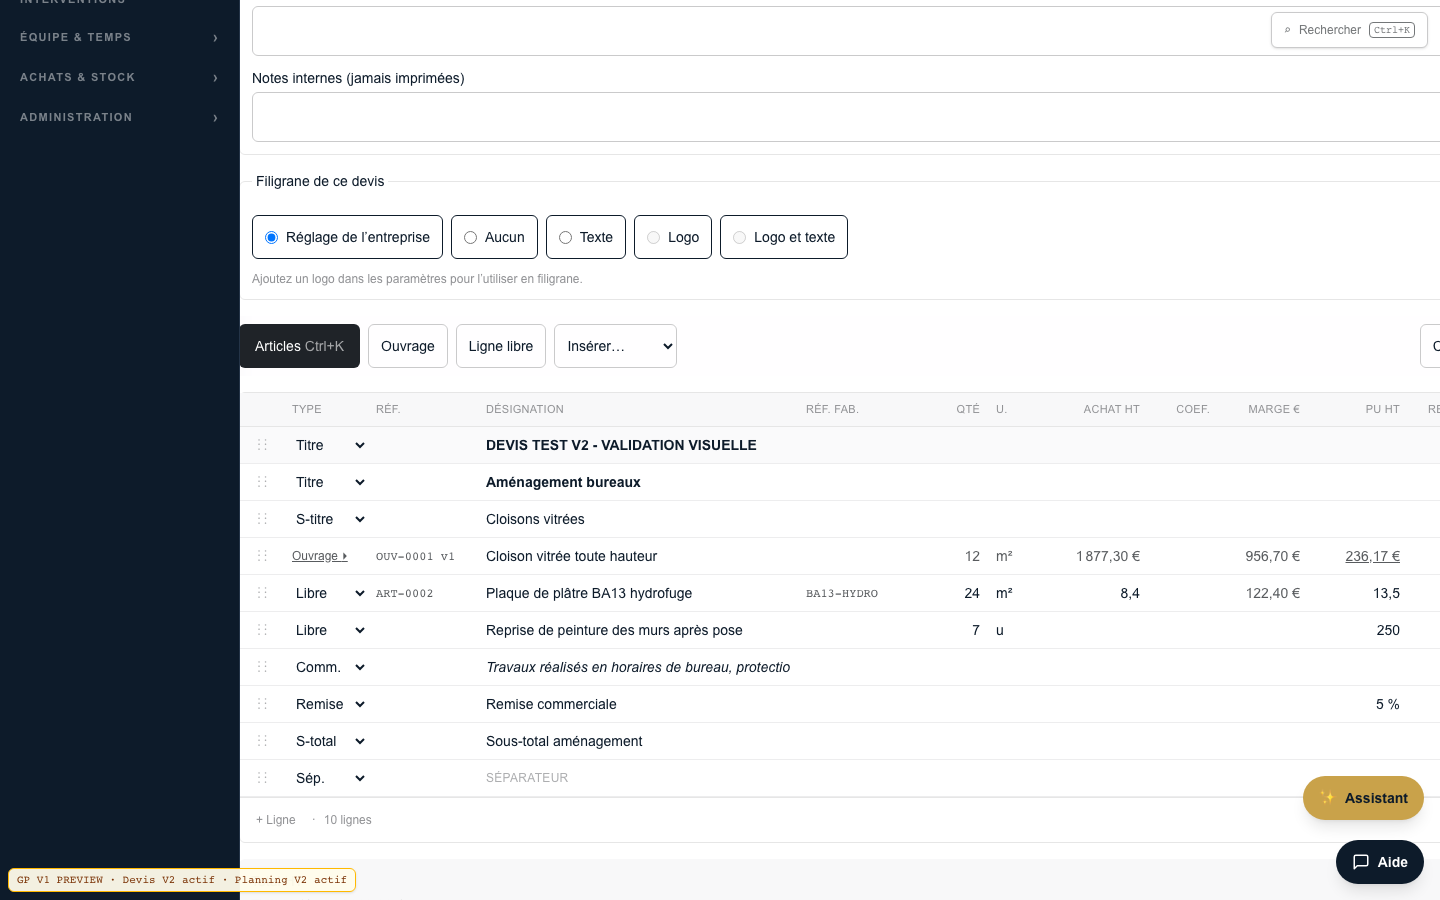
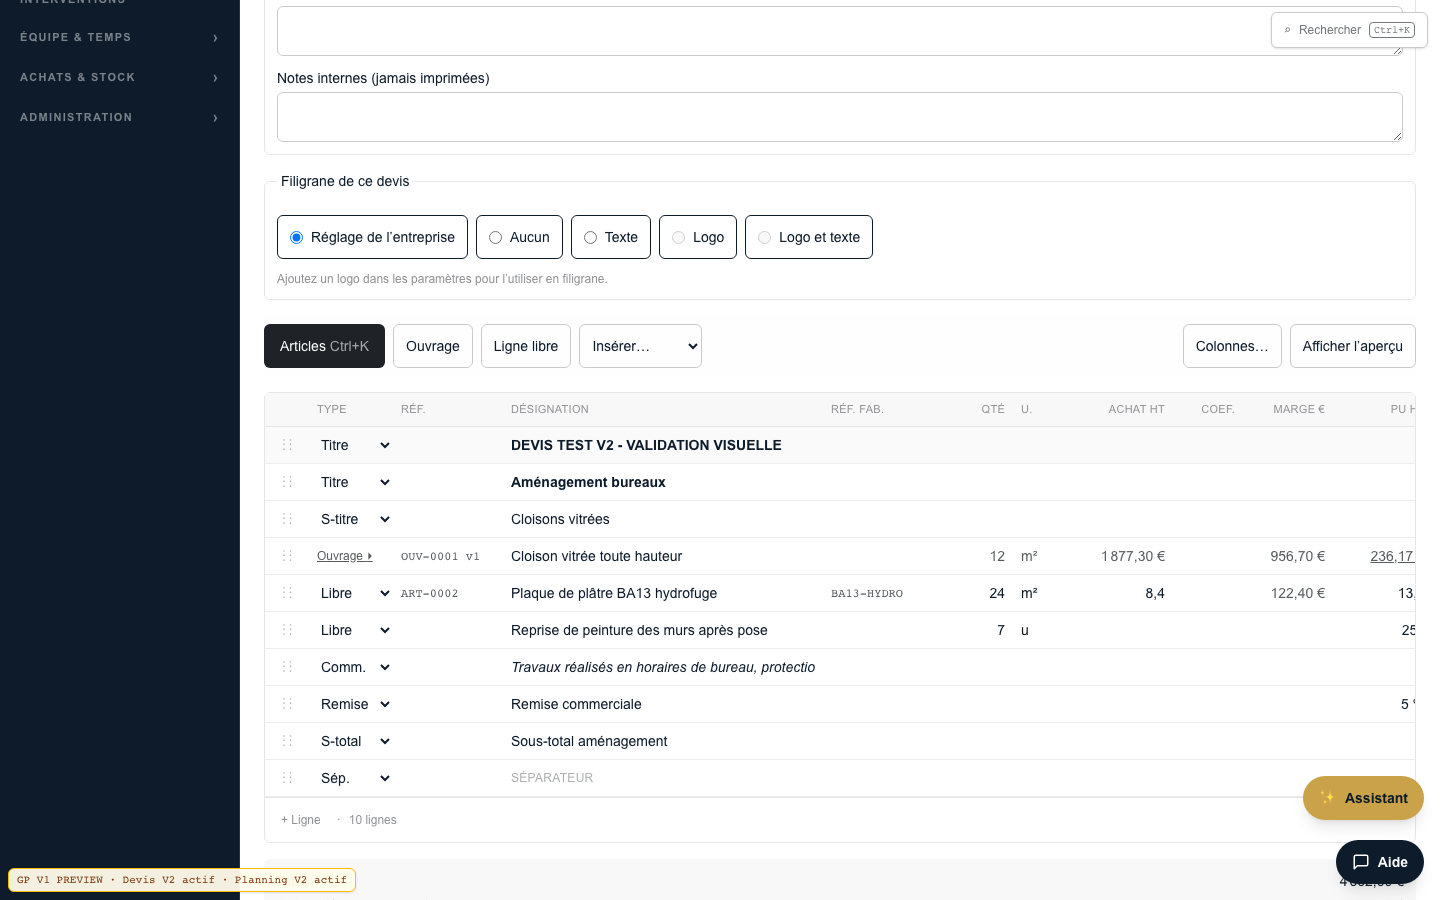
docs(gp-v1): rapport preview § 16 — gate, verdict PRÊT POUR VALIDATION UTILISATEUR ; PDF corrigé

diff --git a/docs/gp-v1/ELSATIA_GP_V1_PREVIEW_VALIDATION_REPORT.md b/docs/gp-v1/ELSATIA_GP_V1_PREVIEW_VALIDATION_REPORT.md
@@ -237,7 +237,7 @@ Aucun `entreprise_feature_flags`, aucun override de recette : la visibilité vie
 | Aperçu A4 fidèle au PDF, en-tête complet | ✅ |
 | Grille pleine largeur | ✅ après correction (« Masquer l'aperçu ») ; par défaut l'aperçu prend la moitié ⚠ à trancher |
 | Fiche devis (lecture) : lignes de structure affichées « Fourniture · 0 u · 0,00 € », ouvrage éclaté | ⚠ présentation à aligner sur la v2 |
-| PDF téléchargeable depuis la preview | ❌ 502 (Chromium ne démarre pas sur Vercel, voir § 13) |
+| PDF téléchargeable depuis la preview | ✅ après correction (§ 13-14 : indice de runtime AL2023 ; 502 avant) |
 
 **Planning**
 | Critère | État |
@@ -278,8 +278,12 @@ la politique `est_membre_actif(entreprise_id)`, préexistant et commun à toute 
    (`serverExternalPackages`, `outputFileTracingIncludes`) et la version Node (24.x) sont **identiques sur le
    projet Vercel de Production** : le défaut est très probablement préexistant et indépendant de GP V1
    (la branche ne modifie pas le lancement). L'archive `al2023.tar.br` contient bien `lib/libnspr4.so` ; la
-   variable `LD_LIBRARY_PATH` ou l'extraction dans `/tmp` semble en cause côté runtime. La cause exacte est
-   maintenant journalisée côté serveur (§ 14) — voir § 16 pour le relevé.
+   cause, journalisée côté serveur : **la fonction ne reçoit pas `VERCEL=1`** (`VERCEL=` vide, aucun
+   `AWS_EXECUTION_ENV`) → `@sparticuz/chromium` se croit sur Amazon Linux 2, n'extrait pas ses bibliothèques
+   AL2023 (`/tmp/al2023/lib/libnspr4.so=false`) et Chromium échoue. Vercel n'expose `VERCEL=1` à l'exécution
+   que si « Automatically expose System Environment Variables » est coché sur le projet. **Corrigé** dans le
+   lanceur (§ 14, `7f86053`) : PDF **200**, vrai PDF Chromium (Skia/PDF m149). Si Production n'a pas cette case
+   cochée, ses PDF étaient dans le même état ; le correctif la couvre aussi.
 2. **Planning 400 évènements en 6,5 s** (§ 12) — correctif SQL prêt, non appliqué (migration 290, § 14).
 3. **Dialogue « Ouvrage » fermé par la première autosauvegarde** d'un nouveau devis (§ 14, corrigé).
 4. **Ligne de la palette typée « Libre »** au lieu de « Article » (§ 14, corrigé).
@@ -295,6 +299,8 @@ la politique `est_membre_actif(entreprise_id)`, préexistant et commun à toute 
 | --- | --- | --- | --- |
 | `8309d04` | devis | `EditeurDevisV2` : la première autosauvegarde d'un nouveau devis gardait la route `/devis/nouveau` mais changeait l'URL en `/devis/<id>/modifier` par `replaceState` ; la prochaine action serveur faisait alors re-rendre la page « modifier » (arbre du routeur ≠ URL) et fermait le dialogue ouvert. L'identifiant voyage dans le fragment `#devis=<id>`, relu au rechargement. | reproduit 2 × avant, dialogue conservé après (diag C/D) ; 343 tests |
 | `059d699`, `372ce47` | devis / PDF | route `/api/documents/devis/[id]/pdf` : la cause d'un échec est journalisée (`[pdf] …`) avec l'environnement Chromium ; le 502 n'est plus muet. | lint, tsc |
+| `7f86053` | PDF | `generer.ts` : dans une fonction serverless (`/var/task`) sans aucun indice de runtime, pose `AWS_LAMBDA_JS_RUNTIME=nodejs<majeur>.x` avant l'import de `@sparticuz/chromium` → bibliothèques AL2023 extraites. | PDF preview 200 après build ; 20 tests `src/lib/pdf` |
+| `8e37d2f` | tests | deux tests du catalogue lisaient le SQL proposé supprimé au lot 0 → migration 284. | 33 tests |
 | `75da3be`, `d33b103` | devis | bouton « Masquer l'aperçu » (grand écran) : grille pleine largeur, 14 colonnes visibles ; colonne unique bornée pour que la grille défile dans son cadre. | capture 39 ; 7 tests composant |
 | `b6229c4` | devis | ligne insérée depuis la palette d'articles : `typeLigne = "article"`. | 343 tests |
 | `a086250` | planning (SQL) | **migration `20260913000290`** : `conflits_planning` en SECURITY DEFINER avec garde `est_membre_actif(p_entreprise_id)`, corps / signature / droits inchangés. **Non appliquée sur la preview** (autorisation demandée). | local : clone du ledger + 290, pgTAP planning 25/25, surface 10/10 ; `verify-migrations` 287 valides |
@@ -304,9 +310,9 @@ Aucune modification de Production, aucune fusion, aucun déploiement Production,
 
 ## 15. Points à valider par Julien
 
-1. **PDF** : vérifier sur app.elsatia.fr (compte réel) que « Télécharger PDF » fonctionne encore ; si non, le
-   défaut est préexistant (runtime Vercel Node 24 + `@sparticuz/chromium`) et relève d'un lot plateforme
-   (option : `@sparticuz/chromium-min` avec pack distant, ou épinglage de la version Node du projet).
+1. **PDF en Production** : vérifier sur app.elsatia.fr que « Télécharger PDF » fonctionne aujourd'hui. S'il échoue,
+   le défaut est préexistant (projet Vercel sans exposition des variables système) et le correctif `7f86053` de
+   cette branche le couvre ; l'autre remède est de cocher « Automatically expose System Environment Variables ».
 2. **Autoriser** l'application de la migration 290 sur la preview (`db push`, 1 fichier) pour mesurer le gain.
 3. **Aperçu A4 par défaut** : conserver l'aperçu ouvert par défaut (état actuel) ou ouvrir la grille pleine largeur
    par défaut, l'aperçu à la demande (plus proche de Batappli).
@@ -314,3 +320,27 @@ Aucune modification de Production, aucune fusion, aucun déploiement Production,
 5. **Retirer le badge** `NEXT_PUBLIC_GP_PREVIEW_BADGE` de tout environnement promu.
 6. **Compacte** : contraste du bouton actif.
 7. Décision produit : copier / coller de lignes entre devis (absent ; duplication présente).
+
+## 16. Gate avant livraison et verdict
+
+| Contrôle | Résultat |
+| --- | --- |
+| Build | Vercel Preview `Ready` pour chaque commit (dernier `7f86053`, déploiement `elsatia-preview-5v2aa59k0`) |
+| Typecheck | `tsc --noEmit` : 0 erreur |
+| Lint | `npm run lint` : 0 erreur, 8 avertissements préexistants (`no-unused-vars`) |
+| Tests unitaires | vitest 2 380 tests : 2 373 verts, 3 ignorés ; sous charge 4 échecs (stripe webhook ×2, surface remises legacy, xlsx) qui **passent tous rejoués seuls** — `xlsx.test.ts` est connu pour dépasser 5 s sous charge |
+| Migrations | `verify-migrations` : 287 fichiers valides ; preview au ledger 289 (290 prête, non appliquée) ; pgTAP GP V1 : preuve du Fresh (§ 19 métier) + planning 25/25 et surface 10/10 avec la 290 |
+| Devis V2 visible | ✅ éditeur ligne par ligne, badge « Devis V2 actif » |
+| Planning V2 visible | ✅ badge « Planning V2 actif » |
+| Works visible sur Pro | ✅ entreprise de recette en Pro, sans override |
+| Overrides de recette | aucun (`entreprise_feature_flags` vide pour l'entreprise de recette) |
+| Flags actifs | Preview uniquement |
+| Migrations preview appliquées | 286/286 |
+| Production intacte | ✅ (jamais liée, jamais interrogée, aucun déploiement) |
+| PDF | ✅ 200 après `7f86053` |
+
+**Verdict : PRÊT POUR VALIDATION UTILISATEUR**, avec les points ouverts du § 15 (migration 290 à autoriser,
+aperçu par défaut, fiche de lecture, badge à retirer avant promotion, contraste « Compacte »).
+
+Temps passé sur cette étape : 03:00 → 09:50 (sauvegarde, répétition générale, push en trois temps, seed,
+recette scriptée devis + planning + perf, 7 correctifs, rapport).
